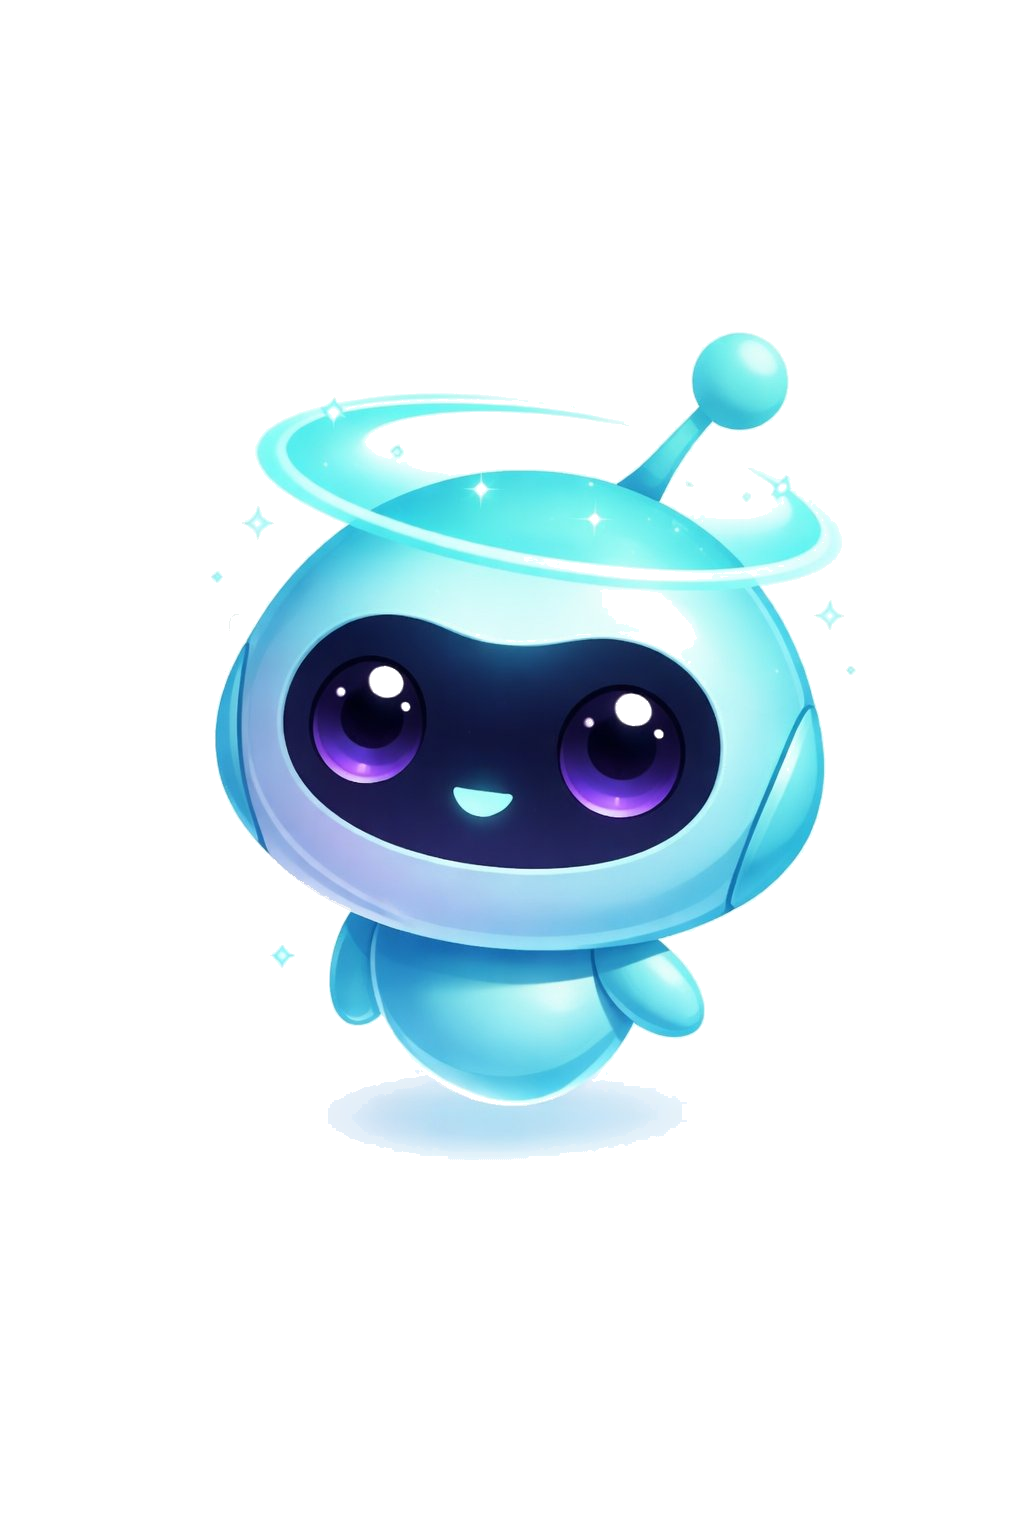
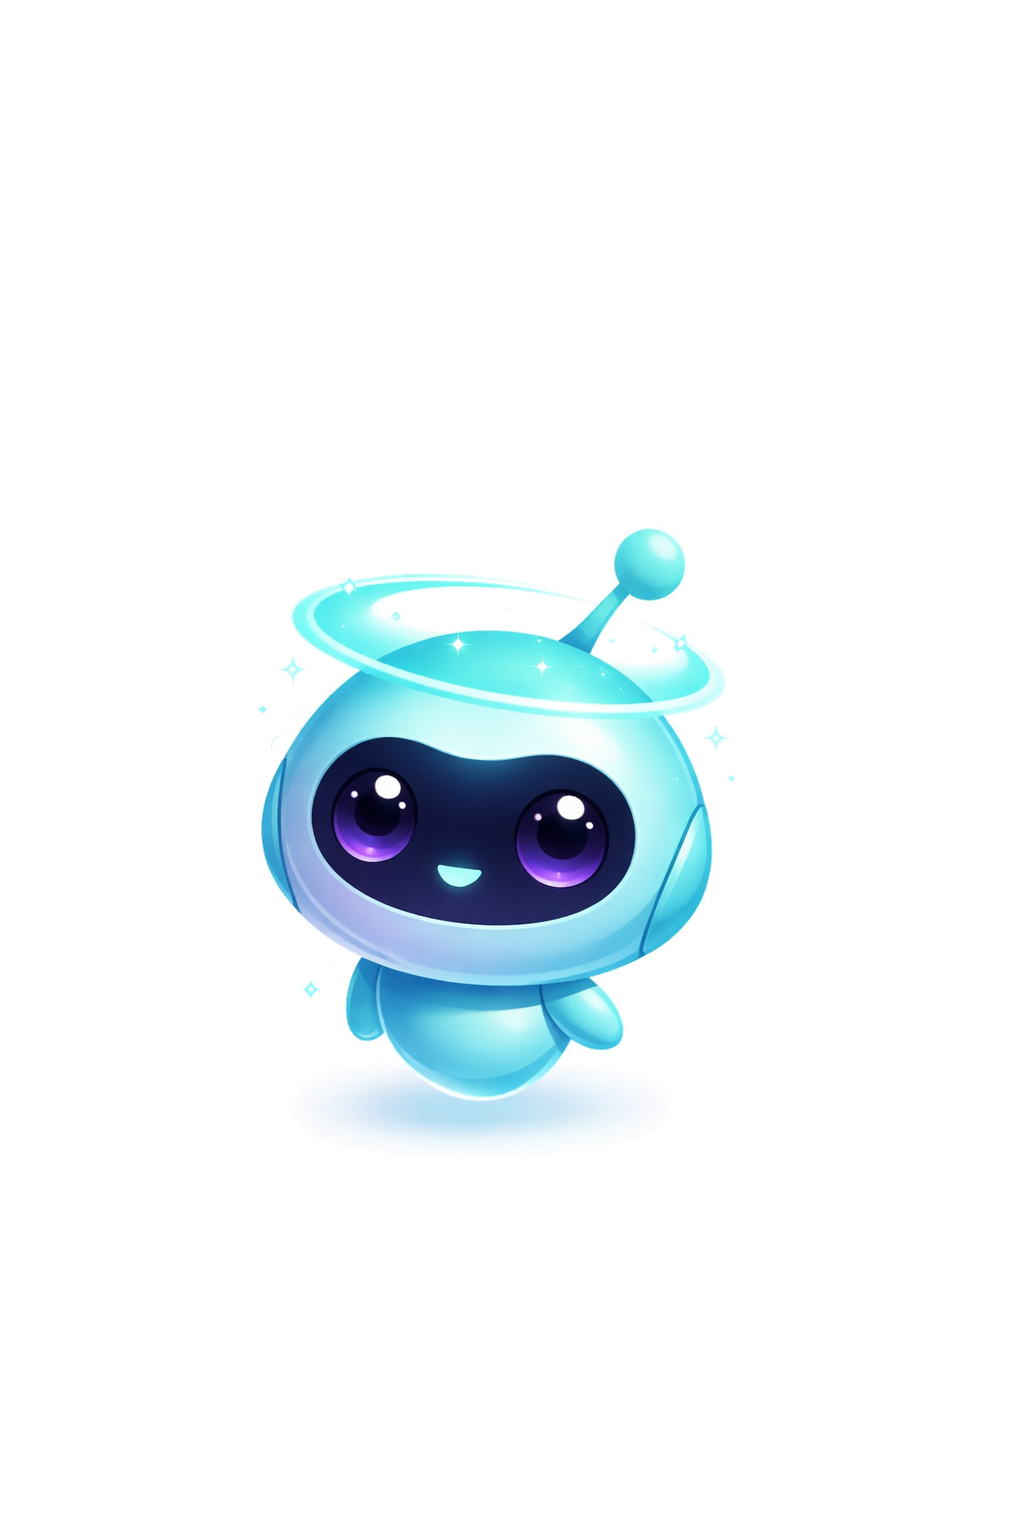
Sam nuevo en todo el sitio y morado más suave en el menú
- images/sam-robot.png: Sam nuevo con el mismo lienzo y encuadre que el viejo,
  así Ayuda, Funciones, Press, Precios, Waitlist y los emails de waitlist
  (que apuntan a la URL absoluta) lo muestran sin cambiar su HTML.
- Sam animado: el GIF tenía manchas grises/blancas en la frente por la
  transparencia de 1 bit. Ahora las páginas usan images/sam-animated.webp
  (transparencia real, rebote lento de 2 s, 107 KB). El GIF se regeneró con
  el Sam nuevo para la descarga del kit de prensa; en Press su tarjeta pasa a
  fondo claro ("Light background"), porque sobre negro deja sombra blanca.
- Menú: botón Download, selector de idioma y botón de la barra de descarga
  usan --indigo-soft (#6E64D8) en vez del indigo fuerte, con texto blanco AA.

Changed region(s): [[0.1875, 0.2188, 0.8438, 0.75]]

diff --git a/styles.css b/styles.css
@@ -7,6 +7,8 @@
   --indigo:       #5B4EE8;
   --indigo-dark:  #4338CA;
   --indigo-light: #EEF0FF;
+  --indigo-soft:  #6E64D8;   /* calmer purple for always-visible chrome (nav button, language pill, sticky bar) */
+  --indigo-soft-dark: #6359CE;
   --coral:        #FF6B5B;
   --coral-light:  #FFF1EF;
   --mint:         #10B981;
@@ -214,7 +216,7 @@ button { cursor: pointer; font-family: inherit; border: none; background: none; 
   transition: all .15s;
 }
 .lang-btn.active {
-  background: var(--indigo);
+  background: var(--indigo-soft);
   color: #fff;
 }
 .lang-btn:hover:not(.active) { color: var(--indigo); }
@@ -363,6 +365,9 @@ button { cursor: pointer; font-family: inherit; border: none; background: none; 
   box-shadow: 0 8px 24px rgba(91,78,232,0.4);
   color: #fff;
 }
+/* Nav CTA: softer than the page buttons, it's on screen all the time */
+.nav .btn-primary { background: var(--indigo-soft); box-shadow: 0 4px 14px rgba(110,100,216,0.18); }
+.nav .btn-primary:hover { background: var(--indigo-soft-dark); box-shadow: 0 6px 18px rgba(110,100,216,0.26); }
 .btn-ghost {
   background: transparent;
   color: var(--indigo);
@@ -1397,7 +1402,7 @@ button { cursor: pointer; font-family: inherit; border: none; background: none; 
 .dl-sticky-bar-text span { color: rgba(255,255,255,.6); font-size: 12px; }
 .dl-sticky-bar-actions { display: flex; align-items: center; gap: 8px; flex-shrink: 0; }
 .dl-sticky-bar-btn {
-  background: #5B4EE8;
+  background: var(--indigo-soft);
   color: #fff;
   padding: 10px 18px;
   border-radius: 10px;
@@ -1406,7 +1411,7 @@ button { cursor: pointer; font-family: inherit; border: none; background: none; 
   text-decoration: none;
   white-space: nowrap;
 }
-.dl-sticky-bar-btn:hover { background: #4a3fd0; }
+.dl-sticky-bar-btn:hover { background: var(--indigo-soft-dark); }
 .dl-sticky-bar-close {
   background: rgba(255,255,255,.15);
   border: none;

diff --git a/press.html b/press.html
@@ -247,12 +247,12 @@
           </div>
         </div>
         <div class="asset-card">
-          <div class="asset-preview dark">
-            <img src="images/sam-animated.gif" alt="Sam animated" width="80" style="object-fit:contain" />
+          <div class="asset-preview">
+            <img src="images/sam-animated.webp" alt="Sam animated" width="80" style="object-fit:contain" />
           </div>
           <div class="asset-meta">
             <div class="asset-name">Sam, Animated GIF</div>
-            <div class="asset-info">GIF · Dark background</div>
+            <div class="asset-info">GIF · Light background</div>
             <a href="images/sam-animated.gif" download class="asset-dl" data-en="↓ Download" data-es="↓ Descargar">↓ Download</a>
           </div>
         </div>
@@ -309,7 +309,7 @@
 
     <!-- Contact -->
     <div style="background:linear-gradient(135deg,var(--indigo-light),#F0FFF4);border-radius:24px;padding:36px;display:flex;align-items:center;gap:24px;flex-wrap:wrap">
-      <img src="images/sam-animated.gif" alt="Sam" width="60" height="60" style="border-radius:50%;flex-shrink:0" />
+      <img src="images/sam-animated.webp" alt="Sam" width="60" height="60" style="border-radius:50%;flex-shrink:0" />
       <div>
         <h3 style="font-size:18px;font-weight:800;color:var(--text-dark);margin-bottom:4px" data-en="Press contact" data-es="Contacto de prensa">Press contact</h3>
         <p style="font-size:14px;color:var(--text-mid);margin-bottom:12px" data-en="For interviews, review copies, partnerships, or press inquiries, we respond within 48 hours." data-es="Para entrevistas, copias de revisión, alianzas o consultas de prensa, respondemos en 48 horas.">For interviews, review copies, partnerships, or press inquiries, we respond within 48 hours.</p>

diff --git a/waitlist.html b/waitlist.html
@@ -154,7 +154,7 @@
 
         <!-- Already on iOS? -->
         <div style="margin-top:48px;background:var(--indigo-light);border-radius:20px;padding:24px;display:flex;align-items:center;gap:16px">
-          <img src="images/sam-animated.gif" alt="Sam" width="48" height="48" style="border-radius:50%;flex-shrink:0" />
+          <img src="images/sam-animated.webp" alt="Sam" width="48" height="48" style="border-radius:50%;flex-shrink:0" />
           <div>
             <div style="font-size:14px;font-weight:700;color:var(--text-dark);margin-bottom:4px" data-en="Already on iPhone?" data-es="¿Ya tienes iPhone?">Already on iPhone?</div>
             <div style="font-size:13px;color:var(--text-mid);margin-bottom:10px" data-en="Finiverse is live on iOS right now. Download free and meet Sam." data-es="Finiverse ya está disponible en iOS. Descarga gratis y conoce a Sam.">Finiverse is live on iOS right now. Download free and meet Sam.</div>

diff --git a/404.html b/404.html
@@ -112,7 +112,7 @@
 <script src="header.js?v=20261012"></script>
 
 <div class="error-page">
-  <img src="images/sam-animated.gif" alt="Sam looking confused" class="error-sam" />
+  <img src="images/sam-animated.webp" alt="Sam looking confused" class="error-sam" />
   <div class="error-code">404</div>
   <h1 style="font-size:clamp(22px,4vw,34px);font-weight:800;color:var(--text-dark);margin-bottom:12px" data-en="Sam looked everywhere." data-es="Sam buscó por todos lados.">Sam looked everywhere.</h1>
   <p style="font-size:16px;color:var(--text-mid);max-width:420px;line-height:1.7" data-en="This page doesn't exist, or it moved when we weren't looking. No judgment. Let's get you back on track." data-es="Esta página no existe, o se movió cuando no estábamos mirando. Sin juicios. Volvamos al camino.">This page doesn't exist, or it moved when we weren't looking. No judgment. Let's get you back on track.</p>

diff --git a/resources.html b/resources.html
@@ -323,7 +323,7 @@
 
   <!-- ═══ SAM CTA ═══ -->
   <div class="sam-cta-banner fade-in">
-    <img src="images/sam-animated.gif" alt="Sam AI" />
+    <img src="images/sam-animated.webp" alt="Sam AI" />
     <div>
       <h3 data-en="Want Sam to guide you through this?" data-es="¿Quieres que Sam te guía en esto?">Want Sam to guide you through this?</h3>
       <p data-en="Sam AI is built into Finiverse and answers your financial questions with context-aware, judgment-free support. No scripts. No generic advice. Just answers for your situation." data-es="Sam IA está integrado en Finiverse y responde tus preguntas financieras con apoyo contextual y sin juicios. Sin guiones. Sin consejos genéricos.">Sam AI is built into Finiverse and answers your financial questions with context-aware, judgment-free support. No scripts. No generic advice. Just answers for your situation.</p>

diff --git a/features.html b/features.html
@@ -602,7 +602,7 @@
 <!-- CTA -->
 <section class="section bg-soft" style="text-align:center">
   <div class="container" style="max-width:600px">
-    <img src="images/sam-animated.gif" alt="Sam" width="72" height="72" style="border-radius:50%;margin-bottom:20px" />
+    <img src="images/sam-animated.webp" alt="Sam" width="72" height="72" style="border-radius:50%;margin-bottom:20px" />
     <h2 class="section-title" data-en="Ready to try it?" data-es="¿Listo para probarlo?">Ready to try it?</h2>
     <p class="section-sub" data-en="Free to download. No credit card. Every feature designed for your brain." data-es="Gratis para descargar. Sin tarjeta. Cada función diseñada para tu cerebro.">Free to download. No credit card. Every feature designed for your brain.</p>
     <div style="display:flex;gap:14px;justify-content:center;flex-wrap:wrap;margin-top:28px">

diff --git a/help.html b/help.html
@@ -337,7 +337,7 @@
     <!-- Didn't find your answer? (the form lives on contact.html) -->
     <div style="background:linear-gradient(135deg,var(--indigo-light),#F0FFF4);border-radius:24px;padding:40px;text-align:center;margin-top:64px;position:relative;overflow:hidden">
       <div style="position:absolute;right:-16px;bottom:-16px;opacity:.1;pointer-events:none">
-        <img src="images/sam-animated.gif" alt="" width="130" aria-hidden="true" />
+        <img src="images/sam-animated.webp" alt="" width="130" aria-hidden="true" />
       </div>
       <div style="position:relative;z-index:1">
         <div style="font-size:36px;margin-bottom:10px">🤔</div>

diff --git a/index.html b/index.html
@@ -8,7 +8,7 @@
   <link rel="preconnect" href="https://fonts.googleapis.com" />
   <link rel="preconnect" href="https://fonts.gstatic.com" crossorigin />
   <link href="https://fonts.googleapis.com/css2?family=Inter:wght@400;500;600;700;800;900&display=swap" rel="stylesheet" />
-  <link rel="stylesheet" href="styles.css?v=20261011f" />
+  <link rel="stylesheet" href="styles.css?v=20261012" />
   <!-- Favicon -->
   <link rel="shortcut icon" href="https://finiverseapp.com/images/app-icon.png" />
   <link rel="icon" type="image/png" href="https://finiverseapp.com/images/app-icon.png" sizes="32x32" />
